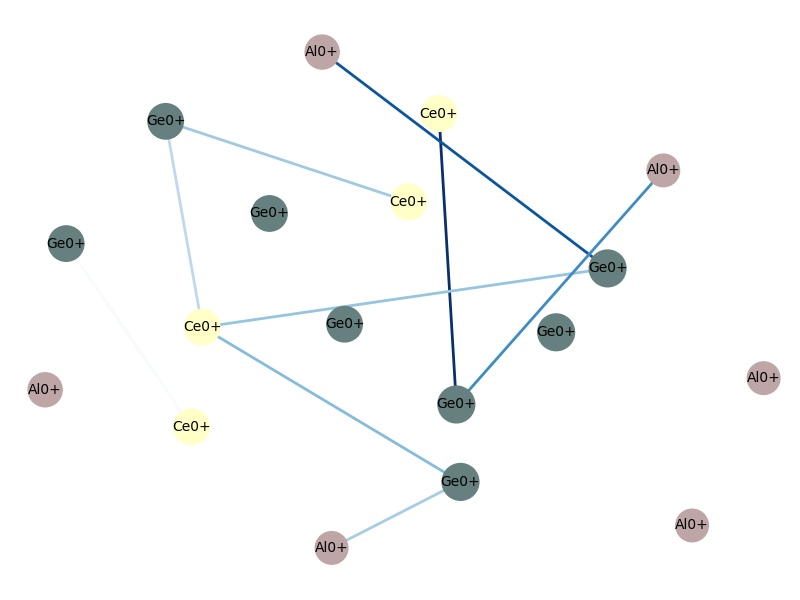
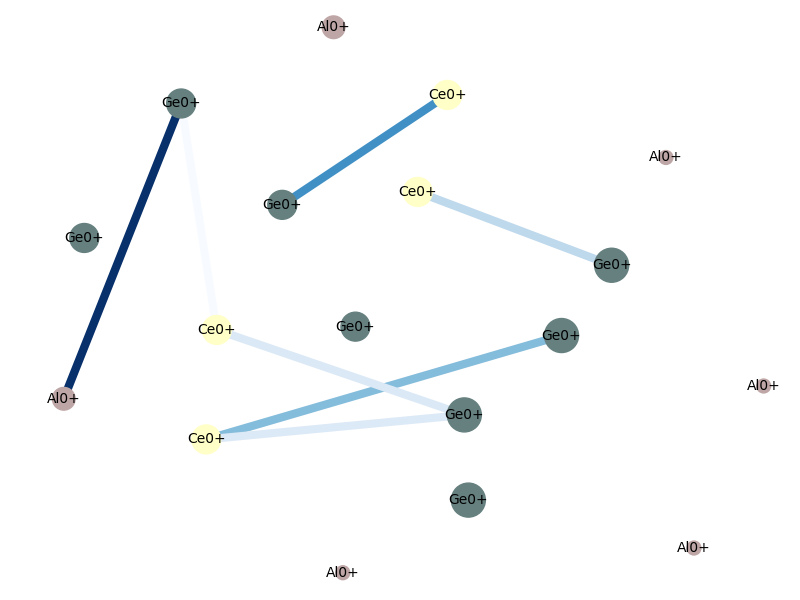
improve Explainer visualization

diff --git a/src/xai/gnn_explainer.py b/src/xai/gnn_explainer.py
@@ -1,39 +1,13 @@
-# src/xai/gnn_explainer.py
-
 import os
+
 import torch
 import matplotlib.pyplot as plt
 import networkx as nx
-
+from matplotlib.patches import Patch
 from torch_geometric.explain import Explainer, GNNExplainer, ModelConfig
 from torch_geometric.utils import to_networkx
 
-ATOM_COLOR_MAP = {
-    'H': '#FFFFFF', 'He': '#D9FFFF', 'Li': '#CC80FF', 'Be': '#C2FF00', 'B': '#FFB5B5',
-    'C': '#909090', 'N': '#3050F8', 'O': '#FF0D0D', 'F': '#90E050', 'Ne': '#B3E3F5',
-    'Na': '#AB5CF2', 'Mg': '#8AFF00', 'Al': '#BFA6A6', 'Si': '#F0C8A0', 'P': '#FF8000',
-    'S': '#FFFF30', 'Cl': '#1FF01F', 'Ar': '#80D1E3', 'K': '#8F40D4', 'Ca': '#3DFF00',
-    'Sc': '#E6E6E6', 'Ti': '#BFC2C7', 'V': '#A6A6AB', 'Cr': '#8A99C7', 'Mn': '#9C7AC7',
-    'Fe': '#E06633', 'Co': '#F090A0', 'Ni': '#50D050', 'Cu': '#C88033', 'Zn': '#7D80B0',
-    'Ga': '#C28F8F', 'Ge': '#668080', 'As': '#BD80E3', 'Se': '#FFA100', 'Br': '#A62929',
-    'Kr': '#5CB8D1', 'Rb': '#702EB0', 'Sr': '#00FF00', 'Y': '#94FFFF', 'Zr': '#94E0E0',
-    'Nb': '#73C2C9', 'Mo': '#54B5B5', 'Tc': '#3B9E9E', 'Ru': '#248F8F', 'Rh': '#0A7D8C',
-    'Pd': '#006985', 'Ag': '#C0C0C0', 'Cd': '#FFD98F', 'In': '#A67573', 'Sn': '#668080',
-    'Sb': '#9E63B5', 'Te': '#D47A00', 'I': '#940094', 'Xe': '#429EB0', 'Cs': '#57178F',
-    'Ba': '#00C900', 'La': '#70D4FF', 'Ce': '#FFFFC7', 'Pr': '#D9FFC7', 'Nd': '#C7FFC7',
-    'Pm': '#A3FFC7', 'Sm': '#8FFFC7', 'Eu': '#61FFC7', 'Gd': '#45FFC7', 'Tb': '#30FFC7',
-    'Dy': '#1FFFC7', 'Ho': '#00FF9C', 'Er': '#00E675', 'Tm': '#00D452', 'Yb': '#00BF38',
-    'Lu': '#00AB24', 'Hf': '#4DC2FF', 'Ta': '#4DA6FF', 'W': '#2194D6', 'Re': '#267DAB',
-    'Os': '#266696', 'Ir': '#175487', 'Pt': '#D0D0E0', 'Au': '#FFD123', 'Hg': '#B8B8D0',
-    'Tl': '#A6544D', 'Pb': '#575961', 'Bi': '#9E4FB5', 'Po': '#AB5C00', 'At': '#754F45',
-    'Rn': '#428296', 'Fr': '#420066', 'Ra': '#007D00', 'Ac': '#70ABFA', 'Th': '#00BAFF',
-    'Pa': '#00A1FF', 'U': '#008FFF', 'Np': '#0080FF', 'Pu': '#006BFF', 'Am': '#545CF2',
-    'Cm': '#785CE3', 'Bk': '#8A4FE3', 'Cf': '#A136D4', 'Es': '#B31FD4', 'Fm': '#B31FBA',
-    'Md': '#B30DA6', 'No': '#BD0D87', 'Lr': '#C70066', 'Rf': '#CC0059', 'Db': '#D1004F',
-    'Sg': '#D90045', 'Bh': '#E00038', 'Hs': '#E6002E', 'Mt': '#EB0026', 'Ds': '#FF1493',
-    'Rg': '#FF00AF', 'Cn': '#FF007F', 'Fl': '#FF0055', 'Lv': '#FF0022', 'Ts': '#FF0000',
-    'Og': '#E00000'
-}
+from src.utils.atom_info import ATOM_COLOR_MAP
 
 def explain_graph_prediction(
     model,
@@ -70,15 +44,21 @@ def explain_graph_prediction(
 
     graph = to_networkx(data, to_undirected=True)
     pos = nx.spring_layout(graph, seed=42)
+    
+    edge_mask_min = min(edge_mask)
+    edge_mask_max = max(edge_mask)
 
-    filtered_edges = [
-        (u, v) for i, (u, v) in enumerate(graph.edges())
-        if edge_mask[i] >= edge_threshold
-    ]
-    edge_weights = [
-        edge_mask[i] for i, (u, v) in enumerate(graph.edges())
-        if edge_mask[i] >= edge_threshold
-    ]
+    filtered_edges = []
+    edge_weights = []
+    edge_widths = []
+    for i, (u, v) in enumerate(graph.edges()):
+        w = edge_mask[i]
+        if w >= edge_threshold:
+            filtered_edges.append((u, v))
+            edge_weights.append(w)
+            edge_widths.append(
+                1 + 5 * ((w - edge_mask_min) / (edge_mask_max - edge_mask_min))
+            )
 
     labels = {
         i: data.atom_types[i] if hasattr(data, "atom_types") else str(i)
@@ -88,7 +68,15 @@ def explain_graph_prediction(
     node_sizes = None
     if scale_node_size:
         degree_dict = dict(graph.degree())
-        node_sizes = [300 + 50 * degree_dict[n] for n in graph.nodes()]
+        deg_values = [degree_dict[n] for n in graph.nodes()]
+        deg_min = min(deg_values)
+        deg_max = max(deg_values)
+        node_sizes = [
+            100 + 500 * ((degree_dict[n] - deg_min) / (deg_max - deg_min))
+            for n in graph.nodes()
+        ]
+    else:
+        node_sizes = [500 for _ in graph.nodes()]
 
     node_colors = [
         ATOM_COLOR_MAP.get(labels[i].rstrip('0123456789+-'), "#FA1691")
@@ -102,7 +90,7 @@ def explain_graph_prediction(
         edgelist=filtered_edges,
         edge_color=edge_weights,
         edge_cmap=plt.cm.Blues,
-        width=2,
+        width=edge_widths,
         with_labels=True,
         labels=labels,
         node_color=node_colors,
@@ -112,6 +100,19 @@ def explain_graph_prediction(
     )
 
     plt.title("GNNExplainer - Edge Importance")
+    
+    unique_atoms = sorted(set([str(a).rstrip('0123456789+-') for a in data.atom_types]))
+    legend_patches = [
+        Patch(color=ATOM_COLOR_MAP.get(sym, "#FA1691"), label=sym)
+        for sym in unique_atoms
+    ]
+    plt.legend(
+        handles=legend_patches,
+        title="Atom Types",
+        loc="lower center",
+        bbox_to_anchor=(0.5, -0.15),
+        ncol=len(unique_atoms)
+    )
 
     if save_path:
         os.makedirs(os.path.dirname(save_path), exist_ok=True)

diff --git a/src/utils/atom_info.py b/src/utils/atom_info.py
@@ -1,0 +1,44 @@
+ATOM_TYPES = [
+    "H", "He",
+    "Li", "Be", "B", "C", "N", "O", "F", "Ne",
+    "Na", "Mg", "Al", "Si", "P", "S", "Cl", "Ar",
+    "K", "Ca", "Sc", "Ti", "V", "Cr", "Mn", "Fe", "Co", "Ni", "Cu", "Zn",
+    "Ga", "Ge", "As", "Se", "Br", "Kr",
+    "Rb", "Sr", "Y", "Zr", "Nb", "Mo", "Tc", "Ru", "Rh", "Pd", "Ag", "Cd",
+    "In", "Sn", "Sb", "Te", "I", "Xe",
+    "Cs", "Ba", "La", "Ce", "Pr", "Nd", "Pm", "Sm", "Eu", "Gd", "Tb", "Dy",
+    "Ho", "Er", "Tm", "Yb", "Lu",
+    "Hf", "Ta", "W", "Re", "Os", "Ir", "Pt", "Au", "Hg",
+    "Tl", "Pb", "Bi", "Po", "At", "Rn",
+    "Fr", "Ra", "Ac", "Th", "Pa", "U", "Np", "Pu", "Am", "Cm", "Bk", "Cf",
+    "Es", "Fm", "Md", "No", "Lr",
+    "Rf", "Db", "Sg", "Bh", "Hs", "Mt", "Ds", "Rg", "Cn",
+    "Nh", "Fl", "Mc", "Lv", "Ts", "Og"
+]
+
+ATOM_COLOR_MAP = {
+    'H': '#FFFFFF', 'He': '#D9FFFF', 'Li': '#CC80FF', 'Be': '#C2FF00', 'B': '#FFB5B5',
+    'C': '#909090', 'N': '#3050F8', 'O': '#FF0D0D', 'F': '#90E050', 'Ne': '#B3E3F5',
+    'Na': '#AB5CF2', 'Mg': '#8AFF00', 'Al': '#BFA6A6', 'Si': '#F0C8A0', 'P': '#FF8000',
+    'S': '#FFFF30', 'Cl': '#1FF01F', 'Ar': '#80D1E3', 'K': '#8F40D4', 'Ca': '#3DFF00',
+    'Sc': '#E6E6E6', 'Ti': '#BFC2C7', 'V': '#A6A6AB', 'Cr': '#8A99C7', 'Mn': '#9C7AC7',
+    'Fe': '#E06633', 'Co': '#F090A0', 'Ni': '#50D050', 'Cu': '#C88033', 'Zn': '#7D80B0',
+    'Ga': '#C28F8F', 'Ge': '#668080', 'As': '#BD80E3', 'Se': '#FFA100', 'Br': '#A62929',
+    'Kr': '#5CB8D1', 'Rb': '#702EB0', 'Sr': '#00FF00', 'Y': '#94FFFF', 'Zr': '#94E0E0',
+    'Nb': '#73C2C9', 'Mo': '#54B5B5', 'Tc': '#3B9E9E', 'Ru': '#248F8F', 'Rh': '#0A7D8C',
+    'Pd': '#006985', 'Ag': '#C0C0C0', 'Cd': '#FFD98F', 'In': '#A67573', 'Sn': '#668080',
+    'Sb': '#9E63B5', 'Te': '#D47A00', 'I': '#940094', 'Xe': '#429EB0', 'Cs': '#57178F',
+    'Ba': '#00C900', 'La': '#70D4FF', 'Ce': '#FFFFC7', 'Pr': '#D9FFC7', 'Nd': '#C7FFC7',
+    'Pm': '#A3FFC7', 'Sm': '#8FFFC7', 'Eu': '#61FFC7', 'Gd': '#45FFC7', 'Tb': '#30FFC7',
+    'Dy': '#1FFFC7', 'Ho': '#00FF9C', 'Er': '#00E675', 'Tm': '#00D452', 'Yb': '#00BF38',
+    'Lu': '#00AB24', 'Hf': '#4DC2FF', 'Ta': '#4DA6FF', 'W': '#2194D6', 'Re': '#267DAB',
+    'Os': '#266696', 'Ir': '#175487', 'Pt': '#D0D0E0', 'Au': '#FFD123', 'Hg': '#B8B8D0',
+    'Tl': '#A6544D', 'Pb': '#575961', 'Bi': '#9E4FB5', 'Po': '#AB5C00', 'At': '#754F45',
+    'Rn': '#428296', 'Fr': '#420066', 'Ra': '#007D00', 'Ac': '#70ABFA', 'Th': '#00BAFF',
+    'Pa': '#00A1FF', 'U': '#008FFF', 'Np': '#0080FF', 'Pu': '#006BFF', 'Am': '#545CF2',
+    'Cm': '#785CE3', 'Bk': '#8A4FE3', 'Cf': '#A136D4', 'Es': '#B31FD4', 'Fm': '#B31FBA',
+    'Md': '#B30DA6', 'No': '#BD0D87', 'Lr': '#C70066', 'Rf': '#CC0059', 'Db': '#D1004F',
+    'Sg': '#D90045', 'Bh': '#E00038', 'Hs': '#E6002E', 'Mt': '#EB0026', 'Ds': '#FF1493',
+    'Rg': '#FF00AF', 'Cn': '#FF007F', 'Fl': '#FF0055', 'Lv': '#FF0022', 'Ts': '#FF0000',
+    'Og': '#E00000'
+}

diff --git a/src/data/graph_dataset.py b/src/data/graph_dataset.py
@@ -8,24 +8,7 @@ from torch.utils.data import Dataset
 from torch_geometric.data import Data
 from tqdm import tqdm
 
-
-ATOM_TYPES = [
-    "H", "He",
-    "Li", "Be", "B", "C", "N", "O", "F", "Ne",
-    "Na", "Mg", "Al", "Si", "P", "S", "Cl", "Ar",
-    "K", "Ca", "Sc", "Ti", "V", "Cr", "Mn", "Fe", "Co", "Ni", "Cu", "Zn",
-    "Ga", "Ge", "As", "Se", "Br", "Kr",
-    "Rb", "Sr", "Y", "Zr", "Nb", "Mo", "Tc", "Ru", "Rh", "Pd", "Ag", "Cd",
-    "In", "Sn", "Sb", "Te", "I", "Xe",
-    "Cs", "Ba", "La", "Ce", "Pr", "Nd", "Pm", "Sm", "Eu", "Gd", "Tb", "Dy",
-    "Ho", "Er", "Tm", "Yb", "Lu",
-    "Hf", "Ta", "W", "Re", "Os", "Ir", "Pt", "Au", "Hg",
-    "Tl", "Pb", "Bi", "Po", "At", "Rn",
-    "Fr", "Ra", "Ac", "Th", "Pa", "U", "Np", "Pu", "Am", "Cm", "Bk", "Cf",
-    "Es", "Fm", "Md", "No", "Lr",
-    "Rf", "Db", "Sg", "Bh", "Hs", "Mt", "Ds", "Rg", "Cn",
-    "Nh", "Fl", "Mc", "Lv", "Ts", "Og"
-]
+from src.utils.atom_info import ATOM_TYPES
 
 def extract_atom_specie(formula, include_charge=False):
     match = re.match(r'^([A-Z][a-z]?)(\d*)([+-])?', formula)
